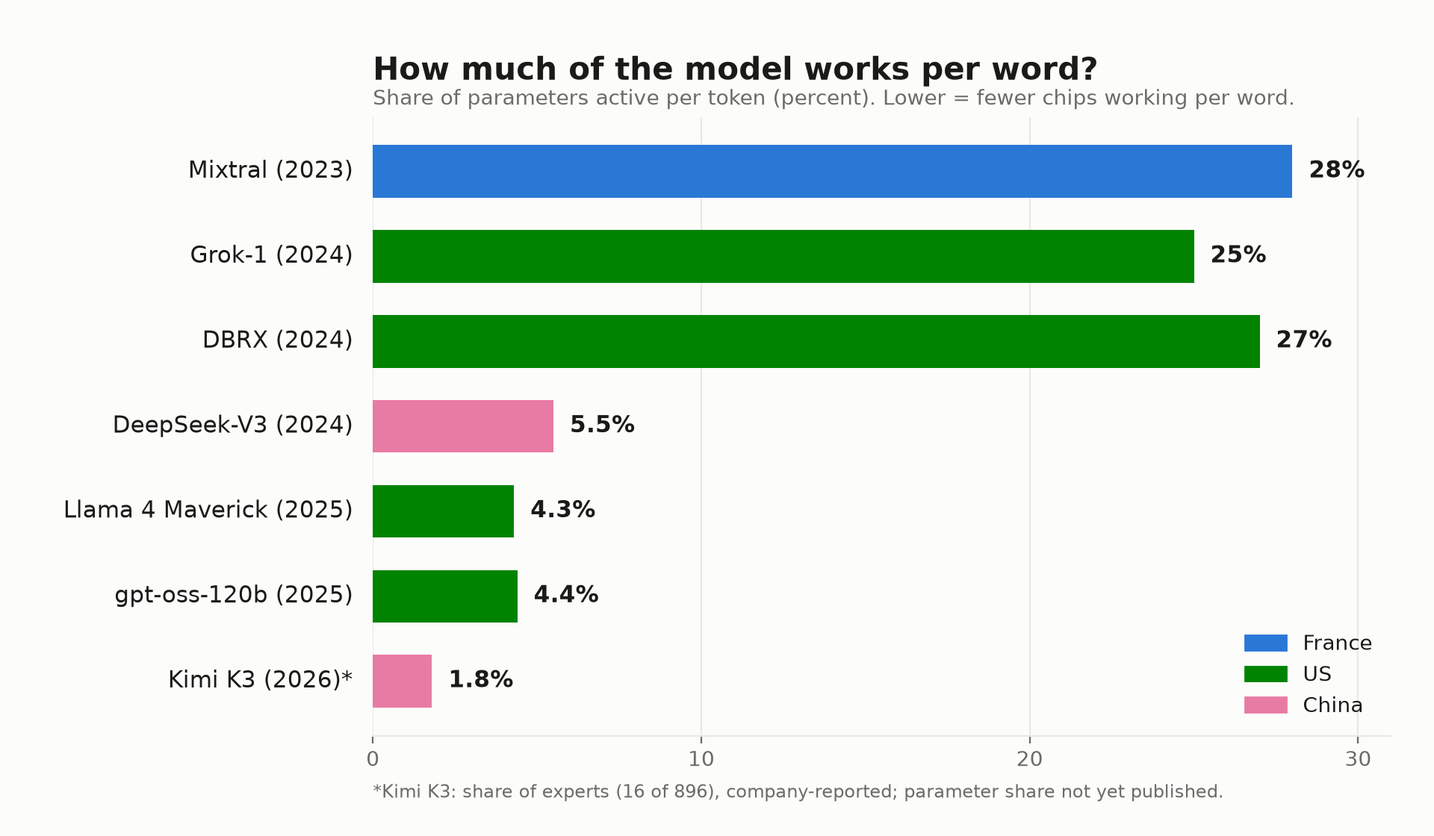
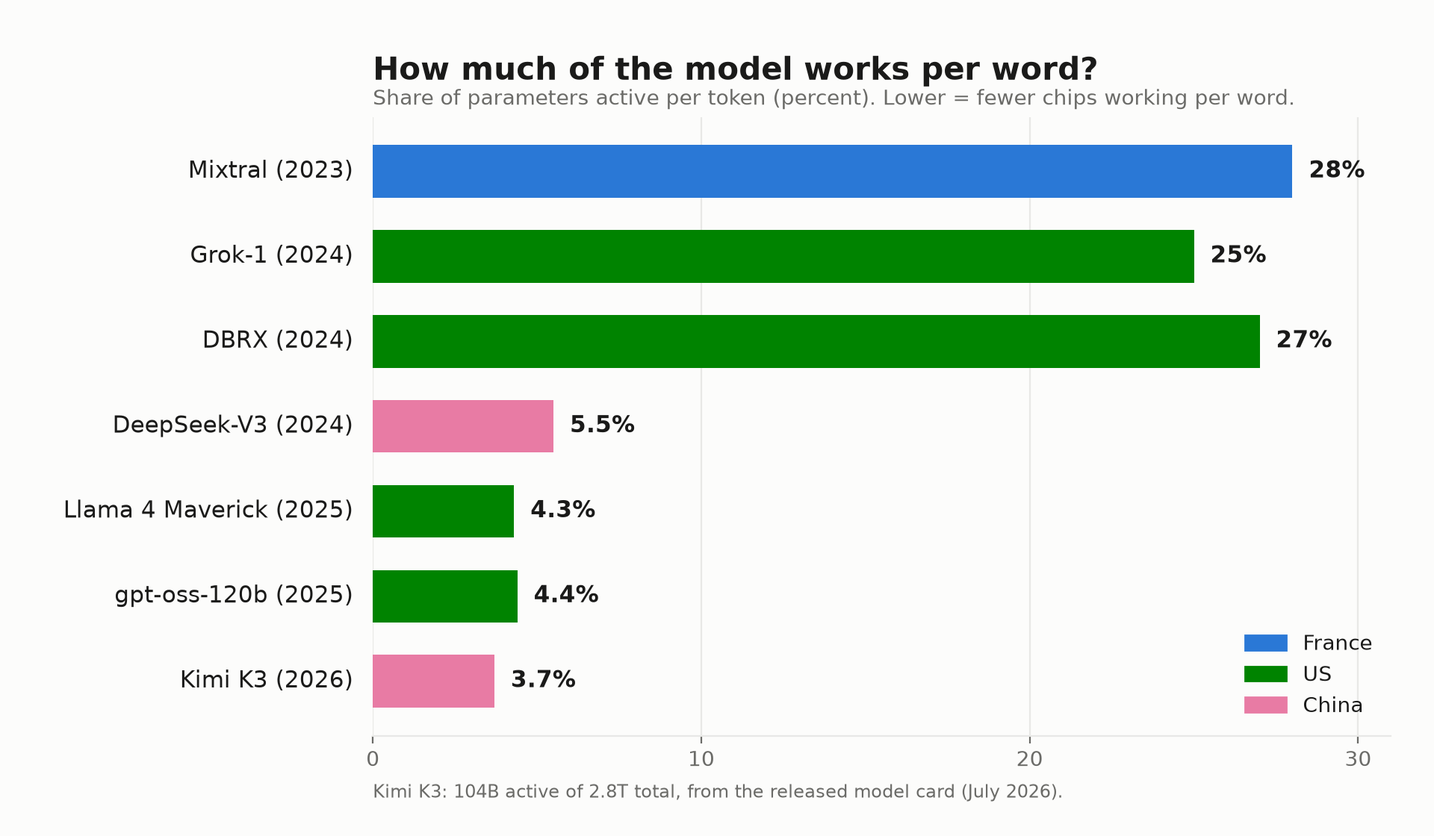
fix(blog): correct K3 active parameters to 104B after weights release
Moonshot published the K3 weights on 27 July 2026. The model card gives
Activated Parameters: 104B against 2.8T total, i.e. 3.7 percent, not the
~2 percent this series inferred from the expert count (16 of 896). Two shared
experts, the attention layers and one dense layer stay active per token, so
the parameter share exceeds the expert share.

Corrected across both parts, EN and AR: lead, hero caption, closing line,
meta/og/twitter descriptions, JSON-LD, and the sparsity chart, which now
measures K3 the same way as every other bar (104B/2.8T) instead of mixing an
expert-count ratio into a parameter-ratio chart.

Confirmed unchanged: 896 experts, 16 per token, 2 shared experts, MXFP4
weights with MXFP8 activations, 1,048,576-token context. New from the config:
93 layers split 69 KDA to 24 gated MLA. Reference [14] now points at the model
card and config.json rather than the company blog.

Changed region(s): [[0.25, 0.9375, 0.8438, 0.9688], [0.2812, 0.7812, 0.4062, 0.8438], [0.125, 0.7812, 0.25, 0.8438]]

diff --git a/blog/mixture-of-experts-explained/ar/index.html b/blog/mixture-of-experts-explained/ar/index.html
@@ -4,7 +4,7 @@
 <meta charset="utf-8">
 <meta name="viewport" content="width=device-width, initial-scale=1">
 <title>شرح مبسط لتقنية خليط الخبراء (MoE) | محمد قدري</title>
-<meta name="description" content="دليل من الصفر لتقنية خليط الخبراء: كيف يعلن Kimi K3 عن 2.8 تريليون معامل بينما يعمل ~2% فقط لكل كلمة، والرقمان الأهم من العنوان.">
+<meta name="description" content="دليل من الصفر لتقنية خليط الخبراء: كيف يضم Kimi K3 2.8 تريليون معامل بينما تنشط 104 مليارات فقط لكل كلمة، والرقمان الأهم من العنوان.">
 <meta name="author" content="Mohamed Kadri">
 <link rel="canonical" href="https://mkadri85.github.io/blog/mixture-of-experts-explained/ar/">
 <link rel="alternate" hreflang="en" href="https://mkadri85.github.io/blog/mixture-of-experts-explained/">
@@ -17,7 +17,7 @@
 <meta property="og:locale" content="ar_AR">
 <meta property="og:url" content="https://mkadri85.github.io/blog/mixture-of-experts-explained/ar/">
 <meta property="og:title" content="شرح مبسط لتقنية خليط الخبراء (MoE)">
-<meta property="og:description" content="يوصف Kimi K3 بأنه نموذج بحجم 2.8 تريليون معامل. حوالي 98% منه خامل في كل إجابة. هذا ليس خللا، هذا هو التصميم. شرح من الصفر.">
+<meta property="og:description" content="يضم Kimi K3 2.8 تريليون معامل، لكن 104 مليارات فقط تنشط مع كل كلمة. هذا ليس خللا، هذا هو التصميم. شرح من الصفر.">
 <meta property="og:image" content="https://mkadri85.github.io/assets/moe-og.jpg">
 <meta property="og:image:type" content="image/jpeg">
 <meta property="og:image:width" content="1200">
@@ -33,16 +33,16 @@
 <!-- Twitter -->
 <meta name="twitter:card" content="summary_large_image">
 <meta name="twitter:title" content="شرح مبسط لتقنية خليط الخبراء (MoE)">
-<meta name="twitter:description" content="يوصف Kimi K3 بأنه نموذج بحجم 2.8 تريليون معامل. حوالي 98% منه خامل في كل إجابة. هذا هو التصميم، مشروحا من الصفر.">
+<meta name="twitter:description" content="يضم Kimi K3 2.8 تريليون معامل، لكن 104 مليارات فقط تنشط مع كل كلمة. هذا هو التصميم، مشروحا من الصفر.">
 <meta name="twitter:image" content="https://mkadri85.github.io/assets/moe-og.jpg">
-<meta name="twitter:image:alt" content="2.8 تريليون معامل كلي مقابل حوالي 2% نشط في نموذج خليط الخبراء">
+<meta name="twitter:image:alt" content="حقل من وحدات الخبراء الخاملة مع مجموعة صغيرة نشطة في نموذج خليط الخبراء">
 
 <script type="application/ld+json">
 {
   "@context": "https://schema.org",
   "@type": "TechArticle",
   "headline": "شرح مبسط لتقنية خليط الخبراء (MoE): لماذا 2.8 تريليون معامل في Kimi K3 لا تعني ما تظنه",
-  "description": "دليل مبسط من الصفر لتقنية خليط الخبراء: الخبراء والموجه والمعاملات الكلية مقابل النشطة، ولماذا يعمل نموذج 2.8 تريليون معامل وهو شبه خامل.",
+  "description": "دليل مبسط من الصفر لتقنية خليط الخبراء: الخبراء والموجه والمعاملات الكلية مقابل النشطة، ولماذا لا ينشط من نموذج 2.8 تريليون معامل سوى 104 مليارات مع كل كلمة.",
   "image": "https://mkadri85.github.io/assets/moe-hero.jpg",
   "author": {"@type": "Person", "name": "Mohamed Kadri", "url": "https://mkadri85.github.io/"},
   "publisher": {"@type": "Person", "name": "Mohamed Kadri", "url": "https://mkadri85.github.io/"},
@@ -162,8 +162,8 @@
   <div class="meta">محمد قدري &middot; 27 يوليو 2026 &middot; 9 دقائق قراءة &middot; <a href="/blog/mixture-of-experts-explained/">Read in English</a></div>
 
   <figure class="hero">
-    <img src="/assets/moe-hero.jpg" alt="2.8 تريليون معامل كلي مقابل حوالي 2% نشط: حقل واسع من وحدات الخبراء الخاملة مع مجموعة صغيرة مضيئة تعمل في نموذج خليط الخبراء" width="1536" height="1024">
-    <figcaption>نموذج بحجم 2.8 تريليون معامل أثناء العمل: كل شيء تقريبا خامل، ومجموعة صغيرة نشطة. الأرقام من Moonshot نفسها <a href="#ref-14">[14]</a>.</figcaption>
+    <img src="/assets/moe-hero.jpg" alt="حقل واسع من وحدات الخبراء الخاملة مع مجموعة صغيرة مضيئة تعمل في نموذج خليط الخبراء" width="1536" height="1024">
+    <figcaption>نموذج بحجم 2.8 تريليون معامل أثناء العمل: كل شيء تقريبا خامل، ومجموعة صغيرة نشطة. ينشط K3 نحو 104 مليارات معامل مع كل كلمة، أي حوالي 3.7% من الإجمالي <a href="#ref-14">[14]</a>.</figcaption>
   </figure>
 
   <div class="toc">
@@ -182,7 +182,7 @@
 
   <p class="lead">يوصف نموذج Kimi K3 بأنه نموذج بحجم 2.8 تريليون معامل.</p>
 
-  <p class="lead">المفاجأة؟ حوالي 98% من هذه المعاملات خاملة في كل مرة يجيبك فيها النموذج، وذلك حسب أرقام الشركة المصنعة نفسها <a href="#ref-14">[14]</a>.</p>
+  <p class="lead">المفاجأة؟ لا ينشط من هذه المعاملات سوى نحو 104 مليارات مع كل كلمة، أي أقل من 4%، وهذا مؤكد من ملفات النموذج التي نشرتها Moonshot في 27 يوليو 2026 <a href="#ref-14">[14]</a>.</p>
 
   <p>هذا ليس خللا. هذا أكبر تحول في تصميم الذكاء الاصطناعي الحديث. وفي هذا المقال نشرحه من الصفر. بلا رياضيات، وبلا خلفية مسبقة. وفي النهاية ستعرف أيضا المصطلحات التقنية الحقيقية.</p>
 
@@ -286,7 +286,7 @@
   </div>
 
   <div class="callout warn">
-    <p><strong>ملاحظة صدق:</strong> أرقام Kimi K3 لا تزال من الشركة نفسها <a href="#ref-14">[14]</a>. حتى وقت كتابة هذا المقال، كان مقررا نشر ملفات النموذج للعموم في 27 يوليو ولم تكن متاحة بعد للفحص المستقل. سنحدث هذا المقال بمجرد أن تصبح الملفات عامة ويمكن تأكيد الأرقام.</p>
+    <p><strong>تحديث 27 يوليو 2026:</strong> نشرت Moonshot أوزان K3، وأصبحت الأرقام هنا مأخوذة من بطاقة النموذج وملف الإعدادات المنشورين بدلا من مدونة الشركة <a href="#ref-14">[14]</a>. صحح هذا الإصدار رقما واحدا في المقال: المعاملات النشطة هي <strong>104 مليارات</strong>، أي نحو 3.7% من الإجمالي، وليست حوالي 2% كما توحي نسبة الخبراء وحدها. يختار النموذج 16 خبيرا موجها من 896، لكن يبقى خبيران مشتركان وطبقات الانتباه وطبقة كثيفة واحدة نشطة مع كل كلمة، لذا فنسبة المعاملات أعلى من نسبة الخبراء. أما بقية الأرقام فقد تأكدت: 896 خبيرا، و16 لكل توكن، وخبيران مشتركان، وأوزان MXFP4، ونافذة سياق 1,048,576 توكن. وتتكون طبقات الانتباه من 69 طبقة KDA مقابل 24 طبقة MLA مبوبة ضمن 93 طبقة.</p>
   </div>
 
   <hr>
@@ -323,7 +323,7 @@
 
   <p>في الجزء الثاني: <a href="/blog/why-long-context-is-hard/ar/"><em>لماذا السياق الطويل صعب - ذاكرة KV و MLA و Kimi Delta Attention، بنفس البساطة</em></a>.</p>
 
-  <p class="closing">العنوان يقول 2.8 تريليون. <span class="grad">القصة في الـ 2%.</span></p>
+  <p class="closing">العنوان يقول 2.8 تريليون. <span class="grad">القصة في الـ 104 مليارات.</span></p>
 
   <div class="author">
     <img src="/assets/portrait.jpg" alt="محمد قدري" width="64" height="64">
@@ -371,10 +371,10 @@
     <li id="ref-11"><a href="https://ai.meta.com/blog/llama-4-multimodal-intelligence/">Llama 4</a>, Meta, 2025.</li>
     <li id="ref-12"><a href="https://arxiv.org/abs/2508.10925">gpt-oss model card</a>, OpenAI, 2025.</li>
     <li id="ref-13"><a href="https://blog.google/technology/ai/google-gemini-next-generation-model-february-2024/">Google announcement of Gemini 1.5</a>, 2024.</li>
-    <li id="ref-14"><a href="https://www.kimi.com/blog/kimi-k3">Kimi K3 tech blog</a>, Moonshot AI, 2026.</li>
+    <li id="ref-14"><a href="https://huggingface.co/moonshotai/Kimi-K3">بطاقة نموذج Kimi K3 وملف config.json</a>، Moonshot AI، صدرت في 27 يوليو 2026، إلى جانب <a href="https://www.kimi.com/blog/kimi-k3">مدونة Kimi K3 التقنية</a>. تدعم: 2.8 تريليون معامل كلي و104 مليارات نشطة، و896 خبيرا مع اختيار 16 لكل توكن، وخبيرين مشتركين، و93 طبقة موزعة على 69 KDA و24 MLA مبوبة، وأوزان MXFP4، ونافذة 1,048,576 توكن.</li>
   </ol>
 
-  <p style="font-size:13.5px;color:var(--dim)">عن هذا المقال: كتبه محمد قدري، مدير تقني يعمل في عمليات شبكات الاتصالات ويبني ويشغل أنظمة وكلاء الذكاء الاصطناعي بشكل عملي. تم التحقق من كل رقم أعلاه مقابل الورقة العلمية الأصلية أو الإصدار الرسمي المذكور، وأرقام Kimi K3 معلمة كادعاءات من الشركة حتى يتم التحقق المستقل من الملفات المنشورة. سيحدث هذا المقال عند اكتمال ذلك الفحص. آخر تحديث: 27 يوليو 2026.</p>
+  <p style="font-size:13.5px;color:var(--dim)">عن هذا المقال: كتبه محمد قدري، مدير تقني يعمل في عمليات شبكات الاتصالات ويبني ويشغل أنظمة وكلاء الذكاء الاصطناعي بشكل عملي. تم التحقق من كل رقم أعلاه مقابل الورقة العلمية الأصلية أو الإصدار الرسمي المذكور، وكانت أرقام Kimi K3 ادعاءات من الشركة عند النشر الأول، ثم أعيد التحقق منها مقابل بطاقة النموذج وملف config.json بعد صدورهما في 27 يوليو 2026، وصحح رقم المعاملات النشطة من حوالي 2% إلى 104 مليارات، أي نحو 3.7%. آخر تحديث: 27 يوليو 2026.</p>
 
 </article>
 

diff --git a/blog/mixture-of-experts-explained/index.html b/blog/mixture-of-experts-explained/index.html
@@ -4,7 +4,7 @@
 <meta charset="utf-8">
 <meta name="viewport" content="width=device-width, initial-scale=1">
 <title>Mixture of Experts (MoE) Explained Simply | Mohamed Kadri</title>
-<meta name="description" content="A zero-background guide to Mixture of Experts: how Kimi K3 claims 2.8 trillion parameters while ~2% work per word, and the two numbers that matter.">
+<meta name="description" content="A zero-background guide to Mixture of Experts: how Kimi K3 holds 2.8 trillion parameters while only 104 billion work per word, and the two numbers that matter.">
 <meta name="author" content="Mohamed Kadri">
 <link rel="canonical" href="https://mkadri85.github.io/blog/mixture-of-experts-explained/">
 <link rel="alternate" hreflang="en" href="https://mkadri85.github.io/blog/mixture-of-experts-explained/">
@@ -17,13 +17,13 @@
 <meta property="og:locale" content="en_US">
 <meta property="og:url" content="https://mkadri85.github.io/blog/mixture-of-experts-explained/">
 <meta property="og:title" content="Mixture of Experts (MoE) Explained Simply">
-<meta property="og:description" content="Kimi K3 claims 2.8 trillion parameters. About 98 percent is asleep when it answers you. The design, explained from zero.">
+<meta property="og:description" content="Kimi K3 holds 2.8 trillion parameters. Only 104 billion are active per word. The design, explained from zero.">
 <meta property="og:image" content="https://mkadri85.github.io/assets/moe-og.jpg">
 <meta property="og:image:secure_url" content="https://mkadri85.github.io/assets/moe-og.jpg">
 <meta property="og:image:type" content="image/jpeg">
 <meta property="og:image:width" content="1200">
 <meta property="og:image:height" content="630">
-<meta property="og:image:alt" content="2.8T total parameters versus about 2 percent active: a vast field of dark sleeping expert units with one small glowing cluster doing the work">
+<meta property="og:image:alt" content="A vast field of dark idle expert units with one small glowing cluster doing the work in a Mixture of Experts AI model">
 <meta property="article:published_time" content="2026-07-27">
 <meta property="article:author" content="Mohamed Kadri">
 <meta property="article:section" content="AI fundamentals">
@@ -35,16 +35,16 @@
 <!-- Twitter -->
 <meta name="twitter:card" content="summary_large_image">
 <meta name="twitter:title" content="Mixture of Experts (MoE) Explained Simply">
-<meta name="twitter:description" content="Kimi K3 claims 2.8 trillion parameters. About 98 percent is asleep when it answers you. The design, explained from zero.">
+<meta name="twitter:description" content="Kimi K3 holds 2.8 trillion parameters. Only 104 billion are active per word. The design, explained from zero.">
 <meta name="twitter:image" content="https://mkadri85.github.io/assets/moe-og.jpg">
-<meta name="twitter:image:alt" content="2.8T total parameters versus about 2 percent active in a Mixture of Experts AI model">
+<meta name="twitter:image:alt" content="A field of idle expert units with one small glowing cluster active in a Mixture of Experts AI model">
 
 <script type="application/ld+json">
 {
   "@context": "https://schema.org",
   "@type": "TechArticle",
   "headline": "Mixture of Experts (MoE) Explained Simply: Why Kimi K3's 2.8 Trillion Parameters Don't Mean What You Think",
-  "description": "A zero-background guide to Mixture of Experts: experts, routers, total vs active parameters, and why a 2.8 trillion parameter model runs mostly asleep.",
+  "description": "A zero-background guide to Mixture of Experts: experts, routers, total vs active parameters, and why a 2.8 trillion parameter model activates only 104 billion per word.",
   "image": "https://mkadri85.github.io/assets/moe-hero.jpg",
   "author": {"@type": "Person", "name": "Mohamed Kadri", "url": "https://mkadri85.github.io/"},
   "publisher": {"@type": "Person", "name": "Mohamed Kadri", "url": "https://mkadri85.github.io/"},
@@ -166,8 +166,8 @@
   <div class="meta">Mohamed Kadri &middot; July 27, 2026 &middot; 9 min read &middot; <a href="/blog/mixture-of-experts-explained/ar/">اقرأ بالعربية</a></div>
 
   <figure class="hero">
-    <img src="/assets/moe-hero.jpg" alt="2.8T total parameters versus about 2 percent active: a vast field of dark sleeping expert units with one small glowing cluster doing the work in a Mixture of Experts AI model" width="1536" height="1024">
-    <figcaption>A 2.8 trillion parameter model at work: almost everything asleep, a small cluster awake. Figures are Moonshot's own <a href="#ref-14">[14]</a>.</figcaption>
+    <img src="/assets/moe-hero.jpg" alt="A vast field of dark idle expert units with one small glowing cluster doing the work in a Mixture of Experts AI model" width="1536" height="1024">
+    <figcaption>A 2.8 trillion parameter model at work: almost everything idle, a small cluster active. K3 activates 104 billion parameters per word, about 3.7 percent of the total <a href="#ref-14">[14]</a>.</figcaption>
   </figure>
 
   <div class="toc">
@@ -186,7 +186,7 @@
 
   <p class="lead">Kimi K3 is called a 2.8 trillion parameter model.</p>
 
-  <p class="lead">The surprising part? Around 98% of those parameters are asleep every time it answers you, by the maker's own numbers <a href="#ref-14">[14]</a>.</p>
+  <p class="lead">The surprising part? Only about 104 billion of those parameters do any work for a given word. That is under 4 percent, confirmed from the model files Moonshot published on 27 July 2026 <a href="#ref-14">[14]</a>.</p>
 
   <p>That is not a bug. It is the biggest architectural shift in modern AI. Here is how it works, explained from zero. No math. No background needed. By the end you will also know the real technical words.</p>
 
@@ -277,7 +277,7 @@
   <p>The result was a race, across all labs, toward using less of the model per word:</p>
 
   <figure>
-    <img src="/assets/moe-sparsity-race.png" alt="Bar chart of the share of parameters active per word: Mixtral 28 percent, Grok-1 25 percent, DBRX 27 percent, DeepSeek-V3 5.5 percent, Llama 4 Maverick 4.3 percent, gpt-oss 4.4 percent, and Kimi K3's company-reported 1.8 percent of experts" width="1920" height="1120" loading="lazy">
+    <img src="/assets/moe-sparsity-race.png" alt="Bar chart of the share of parameters active per word: Mixtral 28 percent, Grok-1 25 percent, DBRX 27 percent, DeepSeek-V3 5.5 percent, Llama 4 Maverick 4.3 percent, gpt-oss 4.4 percent, and Kimi K3 3.7 percent" width="1920" height="1120" loading="lazy">
     <figcaption>How much of the model works per word, by model and country <a href="#ref-6">[6]</a><a href="#ref-7">[7]</a><a href="#ref-8">[8]</a><a href="#ref-10">[10]</a><a href="#ref-11">[11]</a><a href="#ref-12">[12]</a><a href="#ref-14">[14]</a>. Chart by the author.</figcaption>
   </figure>
 
@@ -290,7 +290,7 @@
   </div>
 
   <div class="callout warn">
-    <p><strong>One honest note:</strong> Kimi K3's numbers still come from the company <a href="#ref-14">[14]</a>. At the time of writing, the model files were scheduled for public release on July 27 and were not yet available for independent checks. I will update this post once the files are public and the numbers can be confirmed.</p>
+    <p><strong>Update, 27 July 2026:</strong> Moonshot released the K3 weights, so the figures here now come from the published model card and config file rather than the company blog <a href="#ref-14">[14]</a>. That release corrected one number in this article. Active parameters are <strong>104 billion</strong>, about 3.7 percent of the total, not the roughly 2 percent you get from the expert count alone. Sixteen of 896 routed experts are picked per word, but two shared experts, the attention layers and one dense layer stay active for every word as well, so the parameter share is higher than the expert share. The rest held: 896 experts, 16 per token, two shared experts, MXFP4 weights, and a 1,048,576-token context. The attention stack is 69 KDA layers to 24 gated MLA layers across 93 layers.</p>
   </div>
 
   <hr>
@@ -327,7 +327,7 @@
 
   <p>In Part 2: <a href="/blog/why-long-context-is-hard/"><em>Why Long Context Is Hard - the KV Cache, MLA, and Kimi Delta Attention, explained just as simply</em></a>.</p>
 
-  <p class="closing">The headline says 2.8 trillion. <span class="grad">The story is the 2 percent.</span></p>
+  <p class="closing">The headline says 2.8 trillion. <span class="grad">The story is the 104 billion.</span></p>
 
   <div class="author">
     <img src="/assets/portrait.jpg" alt="Mohamed Kadri" width="64" height="64">
@@ -375,10 +375,10 @@
     <li id="ref-11"><a href="https://ai.meta.com/blog/llama-4-multimodal-intelligence/">Llama 4</a>, Meta, 2025. Supports: Llama 4 as a US MoE model using a shared expert (history section; the chart).</li>
     <li id="ref-12"><a href="https://arxiv.org/abs/2508.10925">gpt-oss model card</a>, OpenAI, 2025. Supports: the gpt-oss bar in the chart and US adoption of extreme sparsity.</li>
     <li id="ref-13"><a href="https://blog.google/technology/ai/google-gemini-next-generation-model-february-2024/">Google announcement of Gemini 1.5</a>, 2024. Supports: Google saying its Gemini models use MoE (history section).</li>
-    <li id="ref-14"><a href="https://www.kimi.com/blog/kimi-k3">Kimi K3 tech blog</a>, Moonshot AI, 2026. Supports: all Kimi K3 figures in this article, which remain company-reported until the public files are independently checked (intro; the chart; the honesty note).</li>
+    <li id="ref-14"><a href="https://huggingface.co/moonshotai/Kimi-K3">Kimi K3 model card and config.json</a>, Moonshot AI, released 27 July 2026, alongside the <a href="https://www.kimi.com/blog/kimi-k3">Kimi K3 tech blog</a>. Supports: 2.8T total and 104B activated parameters, 896 experts with 16 selected per token, 2 shared experts, 93 layers as 69 KDA plus 24 gated MLA, MXFP4 weights with MXFP8 activations, and the 1,048,576-token context (intro; the chart; the update note).</li>
   </ol>
 
-  <p style="font-size:13.5px;color:var(--dim)">About this article: written by Mohamed Kadri, a technical manager working in telecom network operations who builds and runs AI agent systems hands-on. Every number above was checked against the primary paper or official release listed, and the Kimi K3 figures are marked as company claims until the released files are independently verified. This post will be updated when that check completes. Last updated: July 27, 2026.</p>
+  <p style="font-size:13.5px;color:var(--dim)">About this article: written by Mohamed Kadri, a technical manager working in telecom network operations who builds and runs AI agent systems hands-on. Every number above was checked against the primary paper or official release listed. The Kimi K3 figures were company claims when this was first published; they were re-checked against the released model card and config.json on 27 July 2026, and the active-parameter figure was corrected from roughly 2 percent to 104 billion, about 3.7 percent. Last updated: July 27, 2026.</p>
 
   <hr>
 

diff --git a/blog/why-long-context-is-hard/index.html b/blog/why-long-context-is-hard/index.html
@@ -62,7 +62,7 @@
 {"@type":"Question","name":"Why does AI get slower and more expensive in long conversations?","acceptedAnswer":{"@type":"Answer","text":"Because the model's notes (the KV cache) grow with every word. For one 32,000-token chat, a model with DeepSeek-V3's dimensions using standard attention would need roughly 131 gigabytes just for the notes."}},
 {"@type":"Question","name":"What is Multi-head Latent Attention?","acceptedAnswer":{"@type":"Answer","text":"DeepSeek's fix for the growing notes: store a small compressed summary instead of full notes and rebuild the useful parts when needed. It cut the notebook size by 93 percent compared with their previous model, and the answers stayed just as good."}},
 {"@type":"Question","name":"What is Kimi Delta Attention?","acceptedAnswer":{"@type":"Answer","text":"Moonshot's fix: replace the growing notebook with a fixed-size whiteboard that is constantly rewritten, where different areas forget at different speeds. Mixed three-to-one with normal full-notebook layers, it cuts the notebook cost by up to 75 percent."}},
-{"@type":"Question","name":"Is the 1 million token context window real?","acceptedAnswer":{"@type":"Answer","text":"The number is real as a capacity, but the engineering question is what it costs to serve. Designs like MLA and KDA exist exactly to make million-token windows affordable; Kimi K3's version is company-described until its files are independently checked."}}
+{"@type":"Question","name":"Is the 1 million token context window real?","acceptedAnswer":{"@type":"Answer","text":"The number is real as a capacity, but the engineering question is what it costs to serve. Designs like MLA and KDA exist exactly to make million-token windows affordable; Kimi K3's config, published on 27 July 2026, sets that window at 1,048,576 tokens and splits attention as 69 KDA layers to 24 gated MLA."}}
 ]}
 </script>
 
@@ -297,7 +297,7 @@
   <p>Moonshot's fix: replace the growing notebook with a fixed-size whiteboard that is constantly rewritten, where different areas forget at different speeds. Mixed three-to-one with normal full-notebook layers, it cuts the notebook cost by up to 75 percent.</p>
 
   <h3>Is the 1 million token context window real?</h3>
-  <p>The number is real as a capacity, but the engineering question is what it costs to serve. Designs like MLA and KDA exist exactly to make million-token windows affordable; Kimi K3's version is company-described until its files are independently checked.</p>
+  <p>The number is real as a capacity, but the engineering question is what it costs to serve. Designs like MLA and KDA exist exactly to make million-token windows affordable; Kimi K3's config, published on 27 July 2026, sets that window at 1,048,576 tokens and splits attention as 69 KDA layers to 24 gated MLA.</p>
 
   <hr>
 
@@ -309,7 +309,7 @@
     <li id="ref-3"><a href="https://arxiv.org/abs/2412.19437">DeepSeek-V3 Technical Report</a>, 2024. Supports: MLA at frontier scale; model dimensions used in the 131 GB illustration (sections: The KV cache; DeepSeek's fix).</li>
     <li id="ref-4"><a href="https://arxiv.org/abs/2510.26692">Kimi Linear Technical Report (Kimi Delta Attention)</a>, Moonshot AI, 2025. Supports: the fixed-size whiteboard, per-channel forgetting, the 3:1 hybrid and up to 75 percent KV cache reduction (section: Kimi's fix).</li>
     <li id="ref-5">He, Zhang, Ren, Sun: <a href="https://arxiv.org/abs/1512.03385">Deep Residual Learning for Image Recognition</a>, 2015. Supports: the original residual connections idea (section: Two more pieces).</li>
-    <li id="ref-6"><a href="https://www.kimi.com/blog/kimi-k3">Kimi K3 tech blog</a>, Moonshot AI, 2026. Supports: KDA inside K3, the million-token window, Stable LatentMoE and Attention Residuals - all company-described until the public files are independently checked (sections: Kimi's fix; Two more pieces).</li>
+    <li id="ref-6"><a href="https://www.kimi.com/blog/kimi-k3">Kimi K3 model card and config.json</a>, Moonshot AI, released 27 July 2026. Supports: KDA inside K3 (69 KDA layers to 24 gated MLA across 93 layers), the 1,048,576-token window, and the Stable LatentMoE and Attention Residuals design - the layer split and context length now verifiable in the published config until the public files are independently checked (sections: Kimi's fix; Two more pieces).</li>
   </ol>
 
   <p style="font-size:13.5px;color:var(--dim)">Further watching: Welch Labs, &ldquo;How DeepSeek Rewrote the Transformer&rdquo; - the best visual explanation of MLA. Note on the 131 GB figure: computed from the published DeepSeek-V3 attention dimensions (2 x 128 dimensions x 2 bytes x 128 heads x 61 layers x 32,768 tokens) as what standard multi-head attention would cost; DeepSeek-V3 itself avoids it with MLA. About this article: written by Mohamed Kadri; every number was checked against the primary paper or official release listed, and Kimi K3 figures are marked as company claims until the released files are independently verified. Last updated: July 27, 2026.</p>

diff --git a/blog/why-long-context-is-hard/ar/index.html b/blog/why-long-context-is-hard/ar/index.html
@@ -303,10 +303,10 @@
     <li id="ref-3"><a href="https://arxiv.org/abs/2412.19437">DeepSeek-V3 Technical Report</a>, 2024.</li>
     <li id="ref-4"><a href="https://arxiv.org/abs/2510.26692">Kimi Linear Technical Report (Kimi Delta Attention)</a>, Moonshot AI, 2025.</li>
     <li id="ref-5">He, Zhang, Ren, Sun: <a href="https://arxiv.org/abs/1512.03385">Deep Residual Learning for Image Recognition</a>, 2015.</li>
-    <li id="ref-6"><a href="https://www.kimi.com/blog/kimi-k3">Kimi K3 tech blog</a>, Moonshot AI, 2026.</li>
+    <li id="ref-6"><a href="https://huggingface.co/moonshotai/Kimi-K3">بطاقة نموذج Kimi K3 وملف config.json</a>، Moonshot AI، صدرت في 27 يوليو 2026، إلى جانب <a href="https://www.kimi.com/blog/kimi-k3">مدونة Kimi K3 التقنية</a>.</li>
   </ol>
 
-  <p style="font-size:13.5px;color:var(--dim)">ملاحظة رقم 131 جيجابايت: محسوب من أبعاد الانتباه المنشورة لنموذج DeepSeek-V3 (2 &times; 128 بعدا &times; 2 بايت &times; 128 رأسا &times; 61 طبقة &times; 32,768 توكن) كتكلفة الانتباه القياسي؛ بينما يتجنبها DeepSeek-V3 نفسه باستخدام MLA. عن هذا المقال: كتبه محمد قدري، وتم التحقق من كل رقم مقابل الورقة العلمية أو الإصدار الرسمي المذكور، وأرقام Kimi K3 معلمة كادعاءات من الشركة حتى الفحص المستقل. آخر تحديث: 27 يوليو 2026.</p>
+  <p style="font-size:13.5px;color:var(--dim)">ملاحظة رقم 131 جيجابايت: محسوب من أبعاد الانتباه المنشورة لنموذج DeepSeek-V3 (2 &times; 128 بعدا &times; 2 بايت &times; 128 رأسا &times; 61 طبقة &times; 32,768 توكن) كتكلفة الانتباه القياسي؛ بينما يتجنبها DeepSeek-V3 نفسه باستخدام MLA. عن هذا المقال: كتبه محمد قدري، وتم التحقق من كل رقم مقابل الورقة العلمية أو الإصدار الرسمي المذكور، وقد صدرت ملفات Kimi K3 في 27 يوليو 2026، فأصبحت أرقامه مأخوذة من بطاقة النموذج وملف config.json: نافذة 1,048,576 توكن، و93 طبقة موزعة على 69 طبقة KDA و24 طبقة MLA مبوبة. آخر تحديث: 27 يوليو 2026.</p>
 
   <hr>
 

diff --git a/blog/index.html b/blog/index.html
@@ -114,7 +114,7 @@
   <a class="post" href="/blog/mixture-of-experts-explained/">
     <img src="/assets/moe-hero.jpg" alt="2.8T total parameters versus about 2 percent active: a vast field of dark sleeping expert units with one small glowing cluster doing the work in a Mixture of Experts AI model" width="1536" height="1024" loading="lazy">
     <h2>Mixture of Experts (MoE) Explained Simply</h2>
-    <p>Kimi K3 is called a 2.8 trillion parameter model - and around 98 percent of it is asleep every time it answers you. A zero-background guide to experts, routers, and the two numbers that matter more than the headline. Part 1 of the series; also available in Arabic.</p>
+    <p>Kimi K3 holds 2.8 trillion parameters, but only 104 billion of them do any work for a given word. A zero-background guide to experts, routers, and the two numbers that matter more than the headline. Part 1 of the series; also available in Arabic.</p>
     <div class="meta">July 2026 &middot; 9 min read</div>
   </a>
 
